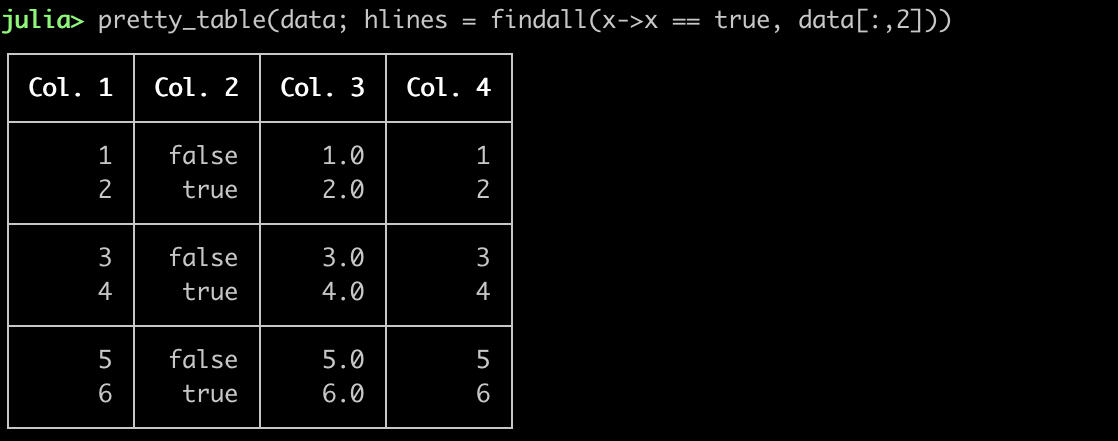
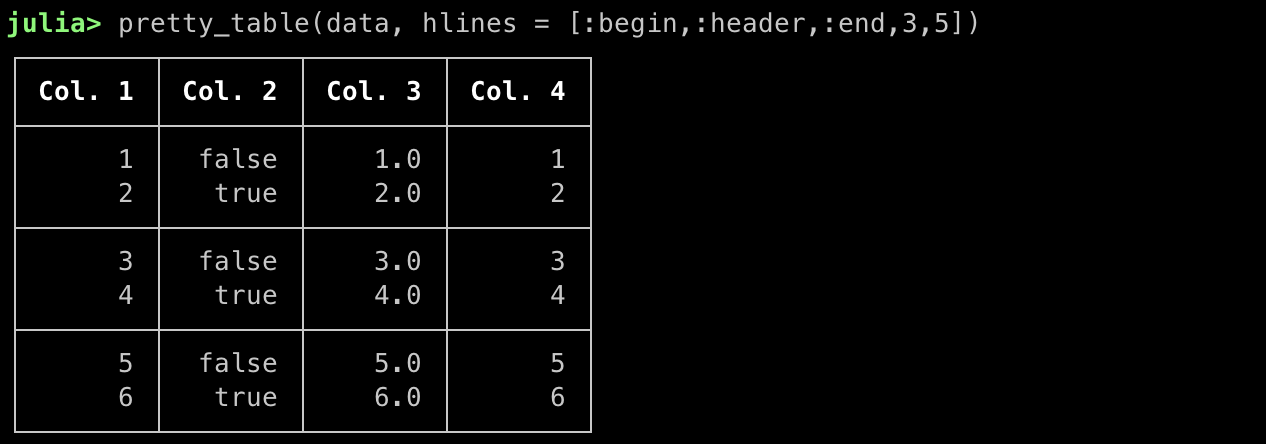
:warning: :wrench: Modify the behavior of hlines in Text backend
The keyword `hlines` in Text back-end now controls all the
horizontal lines, including the top line, header line, and the
bottom line. Thus, the variables `top_line`, `header_line`, and
`bottom_line` of the structure `TextFormat` were removed. This
structure now has a variable `hlines` that defines the common
behavior. This behavior will be used if the user pass the option
`hlines = nothing` to `pretty_table`.

This is a breaking change.

diff --git a/docs/src/man/text_backend.md b/docs/src/man/text_backend.md
@@ -1,4 +1,4 @@
-Text back-end
+/Text back-end
 =============
 
 ```@meta
@@ -41,16 +41,31 @@ passed as keywords when calling the function `pretty_table`:
 * `formatter`: See the section [Formatter](@ref).
 * `highlighters`: An instance of `Highlighter` or a tuple with a list of
                   highlighters (see the section [Text highlighters](@ref)).
-* `hlines`: A vector of `Int` indicating row numbers in which an additional
-            horizontal line should be drawn after the row. Notice that numbers
-            lower than 1 and equal or higher than the number of rows will be
-            neglected.
+* `hlines`: This variable controls where the horizontal lines will be drawn. It
+            can be `nothing`, `:all`, `:none` or a vector of integers.
+    - If it is `nothing`, which is the default, then the configuration will be
+      obtained from the table format in the variable `tf` (see
+      [`TextFormat`](@ref)).
+    - If it is `:all`, then all horizontal lines will be drawn.
+    - If it is `:none`, then no horizontal line will be drawn.
+    - If it is a vector of integers, then the horizontal lines will be drawn
+      only after the rows in the vector. Notice that the top line will be drawn
+      if `0` is in `hlines`, and the header and subheaders are considered as
+      only 1 row. Furthermore, it is important to mention that the row number in
+      this variable is related to the **printed rows**. Thus, it is affected by
+      filters, and by the option to suppress the header `noheader`. Finally, for
+      convenience, the top and bottom lines can be drawn by adding the symbols
+      `:begin` and `:end` to this vector, respectively, and the line after the
+      header can be drawn by adding the symbol `:header`.
+  (**Default** = `nothing`)
 * `hlines_format`: A tuple of 4 characters specifying the format of the
                    horizontal lines. The characters must be the left
                    intersection, the middle intersection, the right
                    intersection, and the row. If it is `nothing`, then it will
-                   use the same format specified in `tf`.
-                   (**Default** = `nothing`)
+                   use the same format specified in `tf`. Notice that this
+                   formatting does not apply to the top line, the header line,
+                   and the bottom line, which must be changed in the `tf`
+                   variable. (**Default** = `nothing`)
 * `linebreaks`: If `true`, then `\n` will break the line inside the cells.
                 (**Default** = `false`)
 * `noheader`: If `true`, then the header will not be printed. Notice that all
